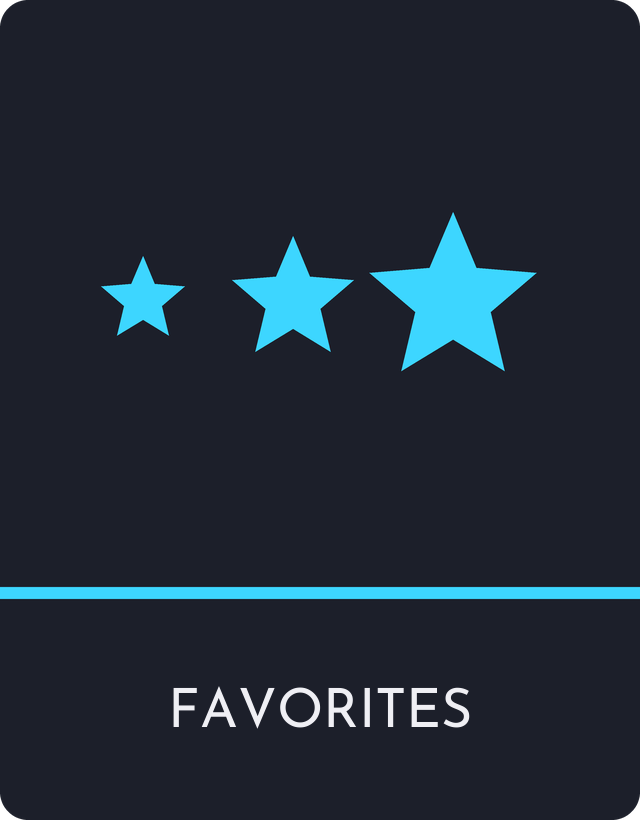
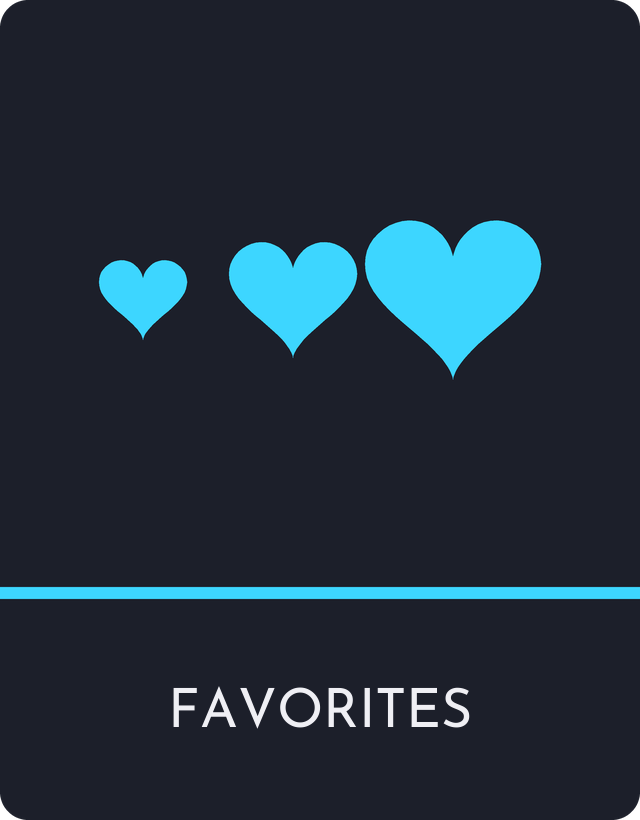
A heart for a favorite, and a bigger one
Stars until now, in two places that had to agree and were kept in step by
hand: the mark beside a favorited game's name, drawn in C, and the three
on res/cards/FAVORITES.png, drawn by tools/genfavcard.py. The curve lives
in markdef.py now, beside CELLS, for the reason CELLS is there.

Bigger too - line/3 where the star was line/4. A heart reads as a heart
only once its notch and its point are visible; at a quarter of a line it
was a blob.

Fanned from a point below centre rather than from centre. The notch is
the one concave part of the shape and a fan apex level with it throws
slivers straight across, filling the notch in.

Changed region(s): [[0.3438, 0.2439, 0.8438, 0.4573], [0.1562, 0.3049, 0.3125, 0.4268]]

diff --git a/src/main.c b/src/main.c
@@ -1002,34 +1002,52 @@ static void draw_hex(SDL_Renderer *r, float cx, float cy, float rad, SDL_Color c
  * `dim` is what makes its arrival visible: the blue is the one lit thing in
  * either mark - the same color as the boot line and the menu chrome - so
  * covering it is the light going out, and the shell closes dark. */
-/* A five-pointed star, as a fan over ten alternating points. Same primitive
- * as draw_hex: SDL has no polygon fill, and SDL_RenderGeometry is already
- * how the mark is drawn. The inner radius is 0.45 rather than the 0.382 a
- * true pentagram wants - at the size this is drawn, the geometric answer
- * reads as spindly. */
-static void draw_star(SDL_Renderer *r, float cx, float cy, float rad,
-                      SDL_Color col)
-{
-	SDL_Vertex v[11];
-	int idx[30], i;
+/* A heart, as a fan over the classic parametric curve:
+ *
+ *     x = 16 sin^3 t
+ *     y = 13 cos t - 5 cos 2t - 2 cos 3t - cos 4t
+ *
+ * Mirrors markdef.heart(), which is the definition - tools/genfavcard.py draws
+ * the same shape into res/cards/FAVORITES.png, and the two are meant to match.
+ * Change one, change both. Same standing arrangement as draw_shell and CELLS.
+ *
+ * Fanned from a point BELOW the centre rather than from the centre itself. The
+ * notch between the lobes is the one concave part of the shape, and a fan
+ * apex level with it produces slivers that cross the notch and fill it in.
+ * Dropping the apex puts every boundary point in view of it. Same primitive as
+ * draw_hex for the same reason: SDL has no polygon fill.
+ */
+#define HEART_N 48
 
-	v[0].position.x = cx; v[0].position.y = cy;
-	for (i = 0; i < 10; i++) {
-		float a = (float)(-M_PI / 2.0 + i * M_PI / 5.0);
-		float rr = (i & 1) ? rad * 0.45f : rad;
-		v[i + 1].position.x = cx + rr * cosf(a);
-		v[i + 1].position.y = cy + rr * sinf(a);
+static void draw_heart(SDL_Renderer *r, float cx, float cy, float rad,
+                       SDL_Color col)
+{
+	SDL_Vertex v[HEART_N + 1];
+	int idx[HEART_N * 3], i;
+
+	v[0].position.x = cx;
+	v[0].position.y = cy + rad * 0.25f;
+	for (i = 0; i < HEART_N; i++) {
+		float t = (float)(2.0 * M_PI * i / HEART_N);
+		float x = 16.0f * powf(sinf(t), 3.0f);
+		float y = 13.0f * cosf(t) - 5.0f * cosf(2 * t)
+		          - 2.0f * cosf(3 * t) - cosf(4 * t);
+
+		/* The curve spans 32 wide and 30 tall; halving the wider axis makes
+		 * `rad` a radius in the same sense the star's was. */
+		v[i + 1].position.x = cx + x * rad / 16.0f;
+		v[i + 1].position.y = cy - y * rad / 16.0f;
 	}
-	for (i = 0; i < 11; i++) {
+	for (i = 0; i <= HEART_N; i++) {
 		v[i].color = col;
 		v[i].tex_coord.x = v[i].tex_coord.y = 0;
 	}
-	for (i = 0; i < 10; i++) {
+	for (i = 0; i < HEART_N; i++) {
 		idx[i * 3 + 0] = 0;
 		idx[i * 3 + 1] = 1 + i;
-		idx[i * 3 + 2] = 1 + (i + 1) % 10;
+		idx[i * 3 + 2] = 1 + (i + 1) % HEART_N;
 	}
-	SDL_RenderGeometry(r, NULL, v, 11, idx, 30);
+	SDL_RenderGeometry(r, NULL, v, HEART_N + 1, idx, HEART_N * 3);
 }
 
 static void draw_shell(SDL_Renderer *r, float cx, float cy, float rad,
@@ -1236,7 +1254,10 @@ static void draw_games(app *a)
 		if (fav_is(gs->tag, g->file)) {
 			TTF_Font *ft = ui_font(UI_F_TITLE);
 			int line = ui_font_line(UI_F_TITLE);
-			int rad = line / 4;
+			/* Bigger than the star it replaced (line/4). A heart reads as
+			 * a heart only once its notch and point are visible, and at a
+			 * quarter of a line it was a blob. */
+			int rad = line / 3;
 			/* Centered on the title's INK, not its em box. The box reserves a
 			 * descender's depth that most titles never use, so a mark placed
 			 * at the box's middle sits visibly below the letters. Descent is
@@ -1245,8 +1266,8 @@ static void draw_games(app *a)
 			int dy = 40 + line / 2 + (ft ? TTF_FontDescent(ft) / 2 : 0);
 			SDL_Color c = { (Uint8)(gs->accent >> 16), (Uint8)(gs->accent >> 8),
 			                (Uint8)gs->accent, 255 };
-			draw_star(a->r, (float)(tx - tw / 2 - rad * 2), (float)dy,
-			          (float)rad, c);
+			draw_heart(a->r, (float)(tx - tw / 2 - rad * 2), (float)dy,
+			           (float)rad, c);
 		}
 		ui_text(a->r, ui_font(UI_F_TITLE), g->title, tx, 40, 0, UI_TEXT);
 		snprintf(count, sizeof count, "%d / %d", v->cursor + 1, v->list.count);

diff --git a/tools/genfavcard.py b/tools/genfavcard.py
@@ -11,8 +11,13 @@ it to drift.
 Matched to the set by measurement rather than by eye: 640x820, card stock
 (28,31,42), a 12px accent rule at y=587, the label under it in (239,239,244).
 Three marks, ascending, which is the composition Genesis and Game Gear already
-use - the set's rhythm is two or three flat shapes, and a single huge star
+use - the set's rhythm is two or three flat shapes, and a single huge heart
 would read as a different kind of card.
+
+The mark is markdef.heart(), the same curve src/main.c draws beside a favorited
+game's name. They were stars until 2026-08-30; a card and a shelf disagreeing
+about what "favorite" looks like is the kind of thing nobody notices and
+everybody feels.
 """
 import math
 import os
@@ -21,7 +26,7 @@ import sys
 from PIL import Image, ImageDraw, ImageFont
 
 sys.path.insert(0, os.path.dirname(os.path.abspath(__file__)))
-from markdef import CYAN  # noqa: E402
+from markdef import CYAN, heart  # noqa: E402
 
 ROOT = os.path.dirname(os.path.dirname(os.path.abspath(__file__)))
 OUT = os.path.join(ROOT, "res", "cards", "FAVORITES.png")
@@ -32,16 +37,14 @@ STOCK = (28, 31, 42)
 LABEL = (239, 239, 244)
 RULE_Y, RULE_H = 587, 12
 RADIUS = 28
-SS = 4                      # supersample, so the star points are not ragged
+SS = 4                      # supersample, so the curve is not ragged
 
 
-def star(d, cx, cy, r, col, points=5, inner=0.45):
-    pts = []
-    for i in range(points * 2):
-        a = -math.pi / 2 + i * math.pi / points
-        rr = r * (inner if i & 1 else 1.0)
-        pts.append((cx + rr * math.cos(a), cy + rr * math.sin(a)))
-    d.polygon(pts, fill=col)
+def mark(d, cx, cy, r, col):
+    """markdef.heart(), placed. The shelf draws the same curve in C - see
+    draw_heart in src/main.c. Stars until 2026-08-30."""
+    d.polygon([(cx + x * 2 * r, cy + y * 2 * r) for x, y in heart(96)],
+              fill=col)
 
 
 def main():
@@ -57,7 +60,7 @@ def main():
     # three circles. Centred on the panel above the rule, not on the card.
     cy = 300 * SS
     for cx, r in ((143, 44), (293, 64), (453, 88)):
-        star(d, cx * SS, cy, r * SS, CYAN + (255,))
+        mark(d, cx * SS, cy, r * SS, CYAN + (255,))
 
     im = im.resize((W, H), Image.LANCZOS)
     d = ImageDraw.Draw(im)

diff --git a/tools/markdef.py b/tools/markdef.py
@@ -61,5 +61,38 @@ CELLS = [
 HEAD = (2.0, 0.0, DKGREEN)    # one step beyond the right cell
 CENTER = CYAN
 
+# ---- the favorite mark ----------------------------------------------------
+#
+# A heart, as the classic parametric curve:
+#
+#     x = 16 sin^3 t
+#     y = 13 cos t - 5 cos 2t - 2 cos 3t - cos 4t
+#
+# Here rather than in either drawer because there are two: the shelf draws it
+# in C with SDL_RenderGeometry, and tools/genfavcard.py draws it into
+# res/cards/FAVORITES.png with PIL. The same argument as CELLS - a hand-kept
+# second copy is a second thing to get wrong, and these two are meant to be
+# the same shape.
+#
+# Returns points in a unit box centred on the origin, y DOWN (screen order),
+# scaled so the taller axis spans 1.0.
+
+def heart(n=64):
+    import math
+
+    pts = []
+    for i in range(n):
+        t = 2.0 * math.pi * i / n
+        x = 16.0 * math.sin(t) ** 3
+        y = (13.0 * math.cos(t) - 5.0 * math.cos(2 * t)
+             - 2.0 * math.cos(3 * t) - math.cos(4 * t))
+        pts.append((x, -y))                      # -y: screen coordinates
+    xs = [p[0] for p in pts]
+    ys = [p[1] for p in pts]
+    cx, cy = (min(xs) + max(xs)) / 2.0, (min(ys) + max(ys)) / 2.0
+    k = 1.0 / max(max(xs) - min(xs), max(ys) - min(ys))
+    return [((x - cx) * k, (y - cy) * k) for x, y in pts]
+
+
 def hexf(rgb):
     return "#%02X%02X%02X" % rgb
